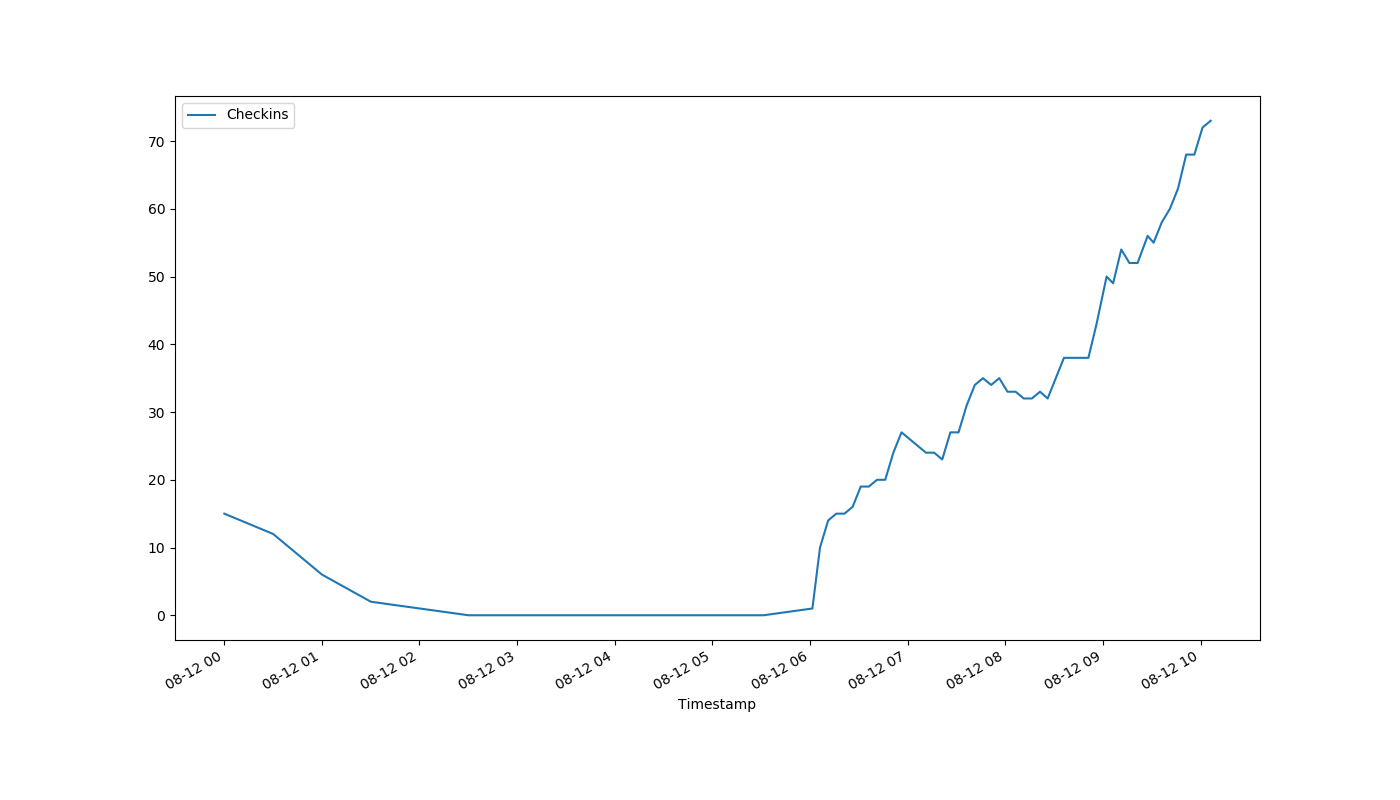
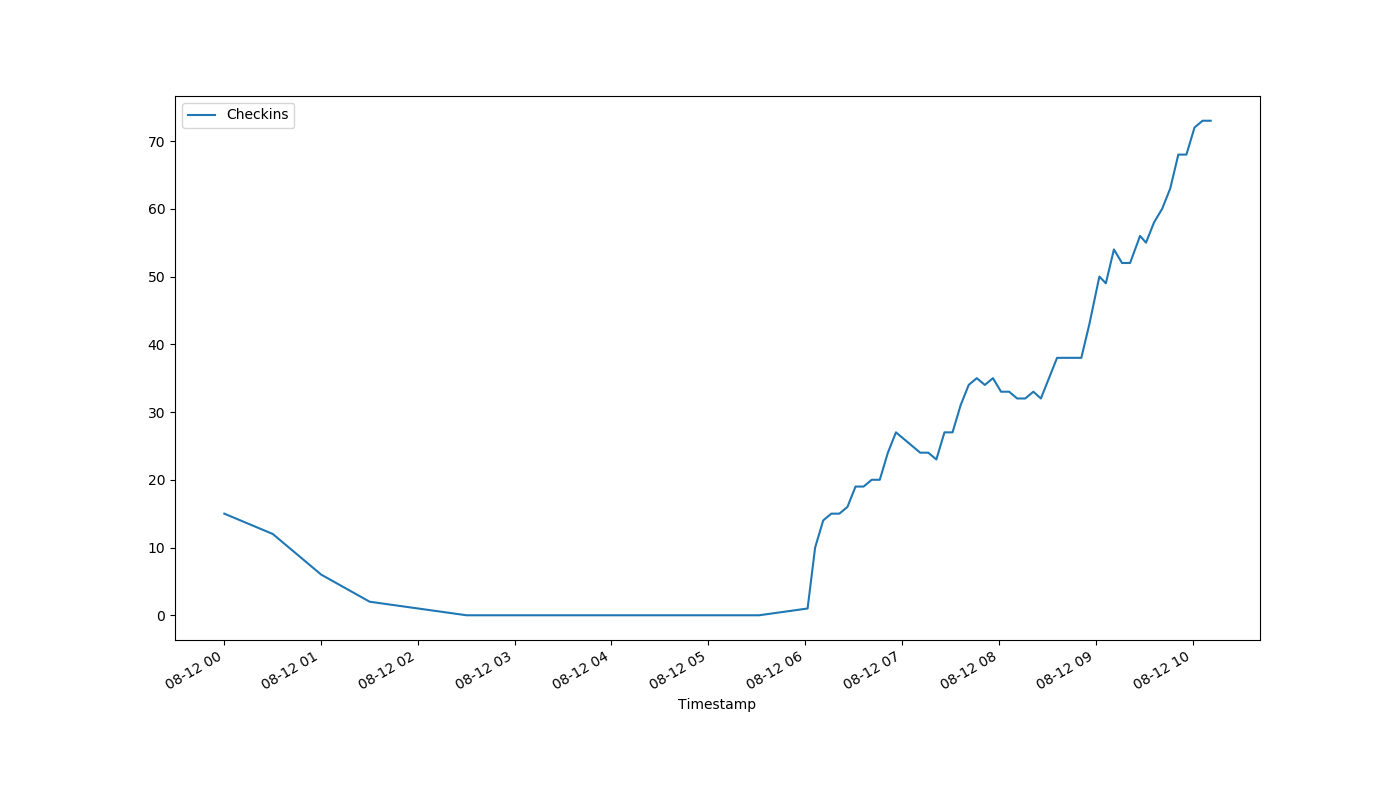
auto-Aug-12-10:12:21

diff --git a/index.html b/index.html
@@ -1,1 +1,1 @@
-<!DOCTYPE html><html><head><meta http-equiv="refresh" content="30"><link rel='stylesheet' href='holmcurrent.css'></head><body><p id='count'>73</p><div id='graph-wrap'><img id='graph' src='holmgraph-Aug-12.png'></div><p id='updated'>Last updated 10:06:19 / 10:06:08</p></body></html>
+<!DOCTYPE html><html><head><meta http-equiv="refresh" content="30"><link rel='stylesheet' href='holmcurrent.css'></head><body><p id='count'>73</p><div id='graph-wrap'><img id='graph' src='holmgraph-Aug-12.png'></div><p id='updated'>Last updated 10:11:19 / 10:11:09</p></body></html>
